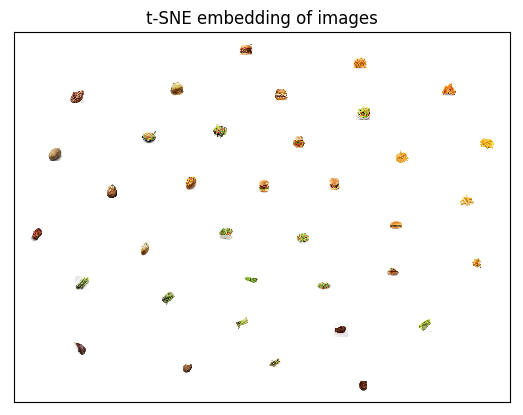
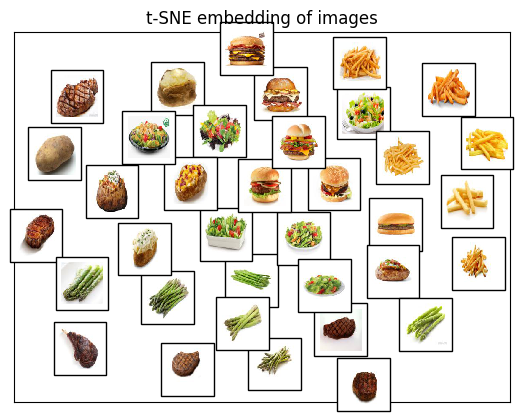
readme

Changed region(s): [[0.0, 0.0289, 1.0, 1.0]]

diff --git a/image_retrieval/src/CV_plot_utils.py b/image_retrieval/src/CV_plot_utils.py
@@ -26,7 +26,6 @@ def plot_query_retrieval(img_query, imgs_retrieval, outFile):
     # Plot query image
     ax = plt.subplot(2, n_retrieval, 0 + 1)
     plt.imshow(img_query)
-    #plt.imshow(img_query, range=range)
     ax.get_xaxis().set_visible(False)
     ax.get_yaxis().set_visible(False)
     for axis in ['top', 'bottom', 'left', 'right']:
@@ -38,7 +37,6 @@ def plot_query_retrieval(img_query, imgs_retrieval, outFile):
     for i, img in enumerate(imgs_retrieval):
         ax = plt.subplot(2, n_retrieval, n_retrieval + i + 1)
         plt.imshow(img)
-        #plt.imshow(img, range=range)
         ax.get_xaxis().set_visible(False)
         ax.get_yaxis().set_visible(False)
         for axis in ['top', 'bottom', 'left', 'right']:
@@ -62,7 +60,7 @@ def plot_tsne(X, imgs, outFile):
         artists = []
         for x0, y0, img0 in zip(x, y, images):
             im = OffsetImage(img0, zoom=zoom)
-            ab = AnnotationBbox(im, (x0, y0), xycoords='data', frameon=False)
+            ab = AnnotationBbox(im, (x0, y0), xycoords='data', frameon=True)
             artists.append(ax.add_artist(ab))
         ax.update_datalim(np.column_stack([x, y]))
         ax.autoscale()
@@ -77,7 +75,7 @@ def plot_tsne(X, imgs, outFile):
         for i in range(X.shape[0]):
             plt.text(X[i, 0], X[i, 1], ".", fontdict={'weight': 'bold', 'size': 9})
         if hasattr(offsetbox, 'AnnotationBbox'):
-            imscatter(X[:,0], X[:,1], imgs, zoom=0.1, ax=ax)
+            imscatter(X[:,0], X[:,1], imgs, zoom=0.3, ax=ax)
 
         plt.xticks([]), plt.yticks([])
         if title is not None:
